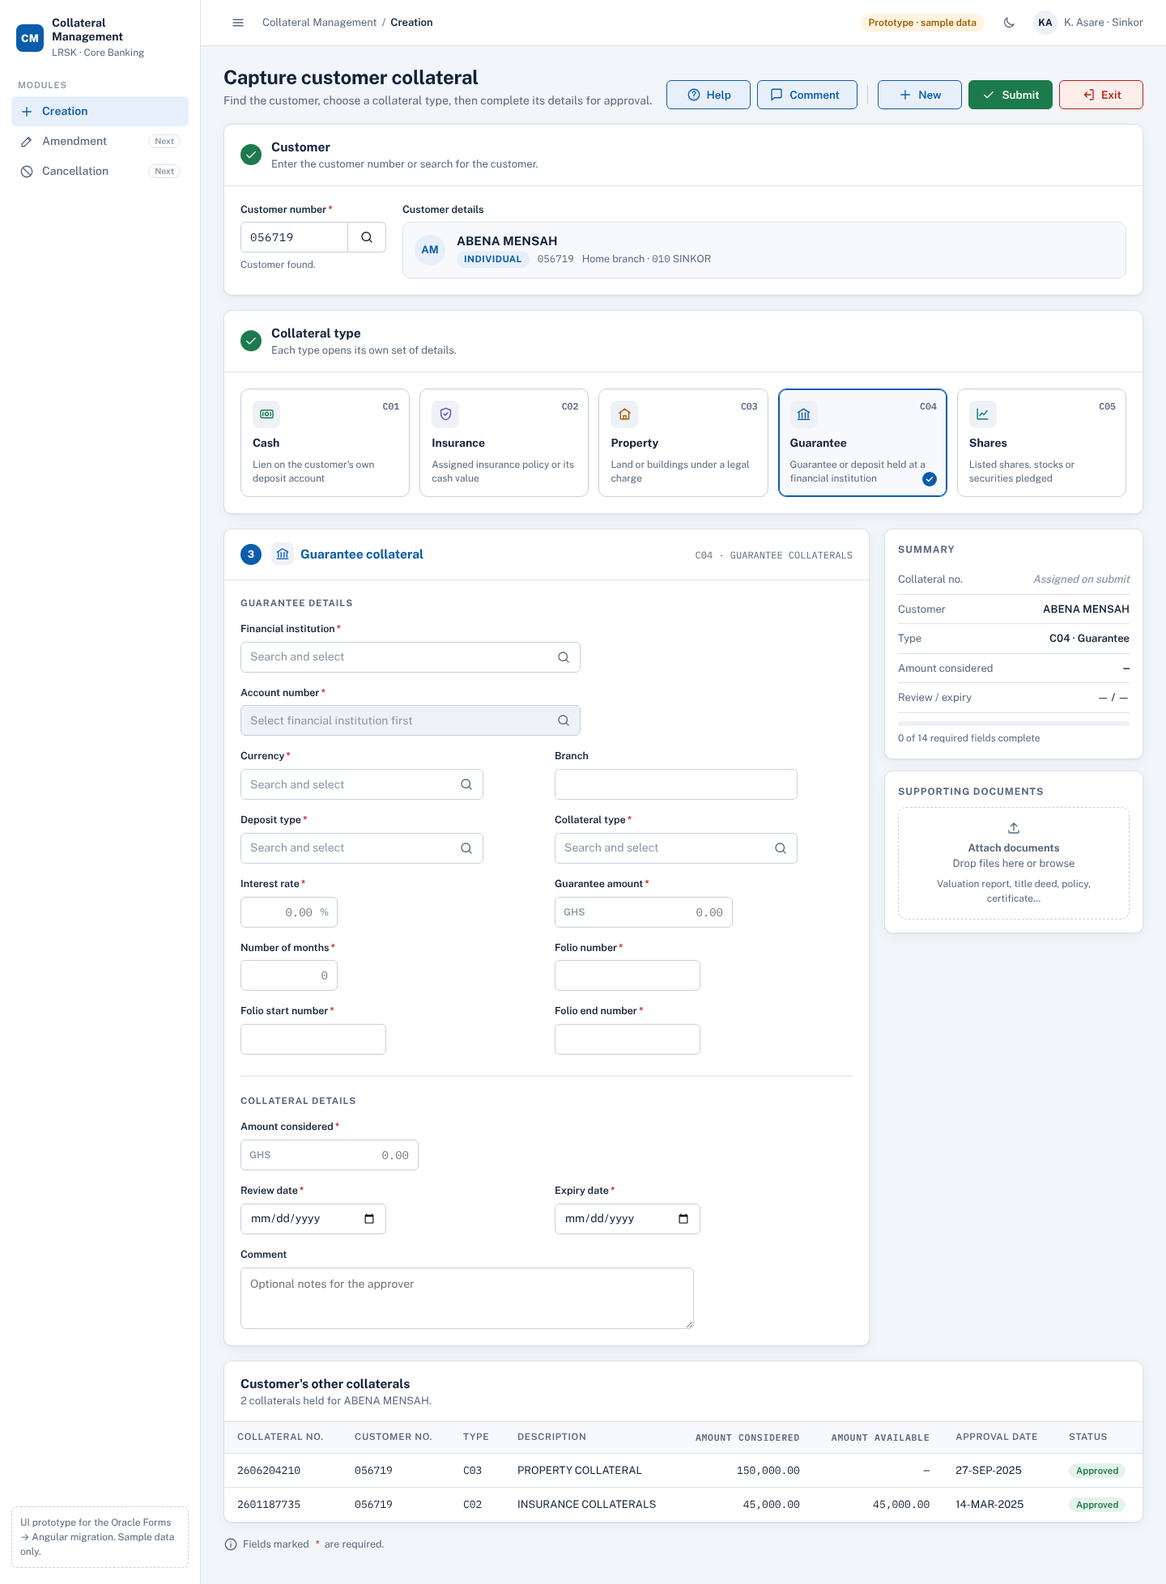
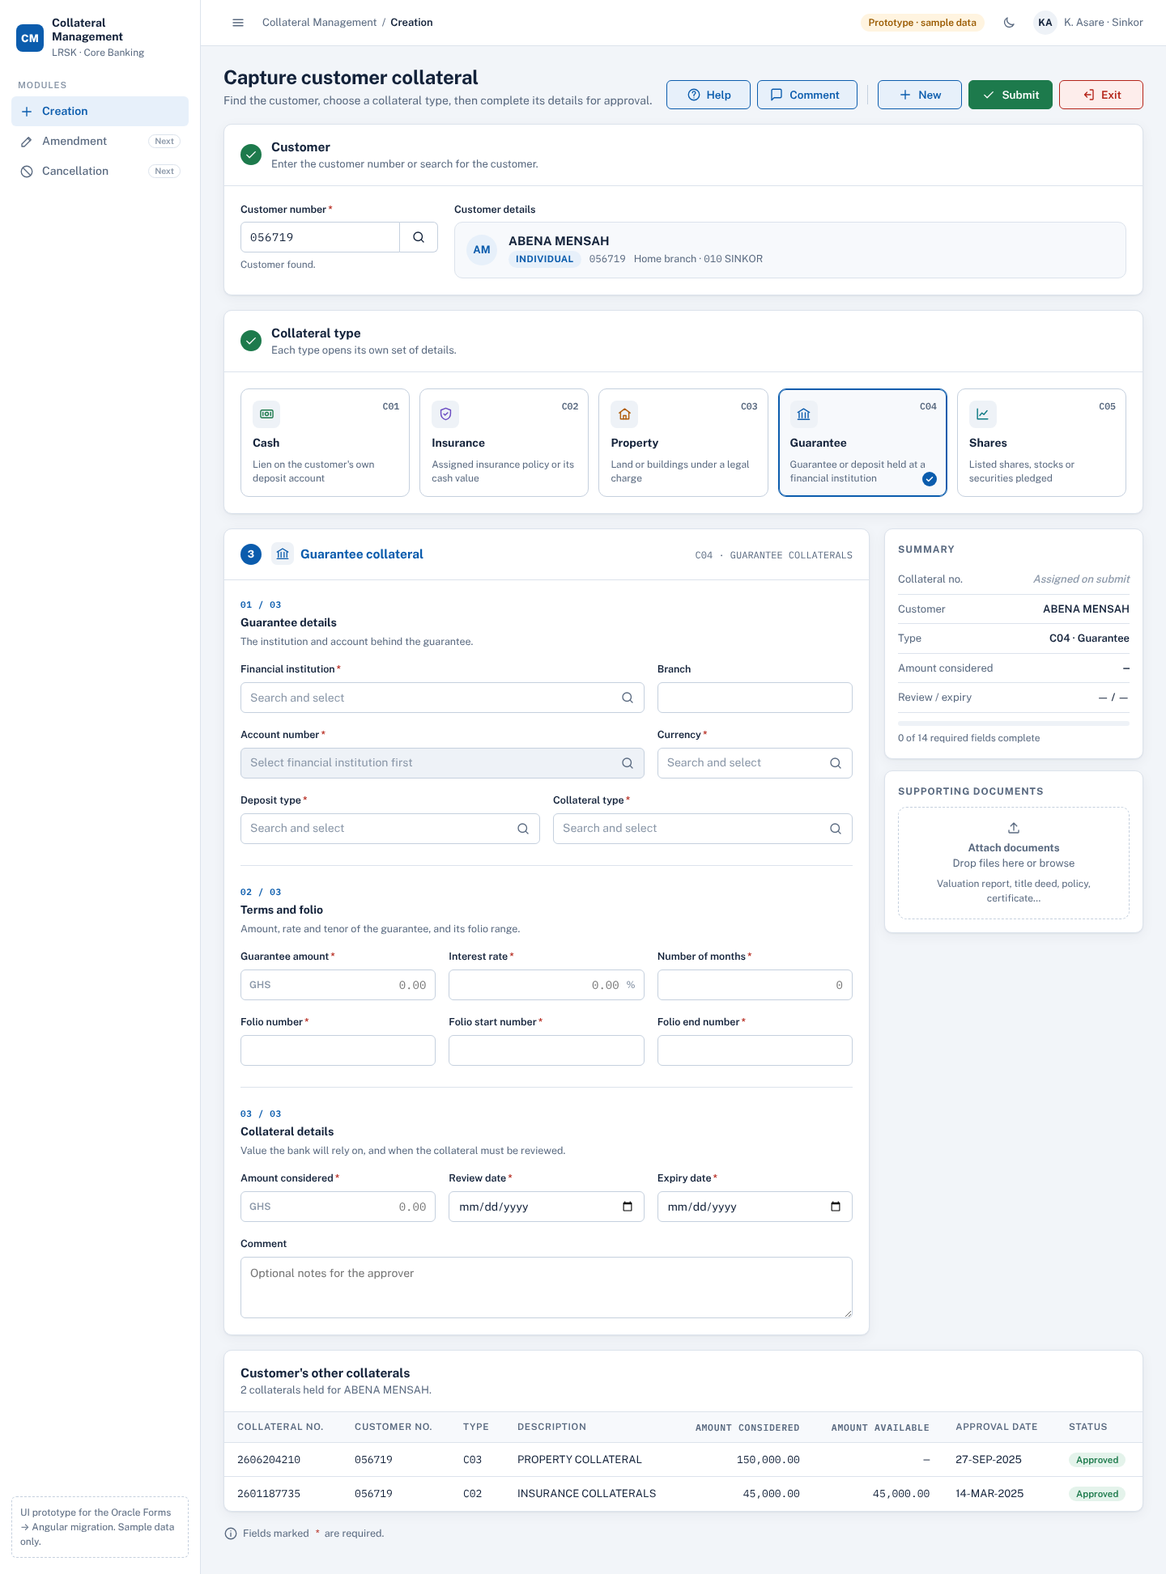
Lay out collateral forms on a 12-column grid
Fields span columns in proportion to their values and every row totals
12, so edges align. Forms split into described sections; auto-filled
fields get a lock and tag. Docs updated with the grid rules.

Claude-Session: https://claude.ai/code/session_011ztbXXXbWQFsQty3k2T7VW

diff --git a/design/creation/index.html b/design/creation/index.html
@@ -120,12 +120,9 @@ svg.i{width:18px;height:18px;flex:none;stroke:currentColor;fill:none;stroke-widt
 .card-body{padding:20px}
 
 /* Fields */
-.grid{display:grid;grid-template-columns:repeat(2,minmax(0,1fr));gap:16px 20px}
-.grid .span2{grid-column:1/-1}
-/* Field width scale: controls are sized to the length of their values, not stretched to the column */
-.field{--w:100%}
-.field > .input,.field > .lookup-btn,.field > .ro,.field > .affix,.field > .search{width:var(--w);max-width:100%}
-.w-xs{--w:120px}.w-sm{--w:180px}.w-md{--w:220px}.w-lg{--w:300px}.w-xl{--w:420px}.w-2xl{--w:560px}.w-full{--w:100%}
+/* 12-column form grid: fields span columns in proportion to their value; every row totals 12 */
+.grid{display:grid;grid-template-columns:repeat(12,minmax(0,1fr));gap:18px 16px}
+.grid > .field{grid-column:span var(--col,12)}
 .field{display:flex;flex-direction:column;gap:6px;min-width:0}
 .field label,.field .lbl{font-size:12.5px;font-weight:600;color:var(--fg)}
 .req{color:var(--danger);margin-left:2px}
@@ -139,7 +136,10 @@ textarea.input{height:auto;min-height:76px;padding:9px 11px;resize:vertical}
 .affix .pre{left:11px}.affix .post{right:11px}
 .affix .pre + .input{padding-left:46px}
 .affix .input.has-post{padding-right:30px}
-.ro{display:flex;align-items:center;background:var(--sunken);border-color:transparent;color:var(--fg);gap:8px;overflow:hidden;white-space:nowrap;text-overflow:ellipsis}
+.ro{display:flex;align-items:center;background:var(--sunken);border-color:transparent;color:var(--fg);gap:8px;overflow:hidden;white-space:nowrap}
+.ro .t{flex:1;min-width:0;overflow:hidden;text-overflow:ellipsis}
+.ro svg{color:var(--faint);width:14px;height:14px}
+.lbl-auto{font-weight:500;color:var(--faint);font-size:11px;margin-left:6px}
 .ro.empty{color:var(--faint)}
 .lookup-btn{display:flex;align-items:center;gap:10px;text-align:left;cursor:pointer}
 .lookup-btn .code{font-family:var(--font-mono);font-size:12.5px;font-weight:600;background:var(--sunken);border-radius:4px;padding:1px 6px}
@@ -150,9 +150,15 @@ textarea.input{height:auto;min-height:76px;padding:9px 11px;resize:vertical}
 .hint{font-size:12px;color:var(--muted)}
 .err{font-size:12px;color:var(--danger);display:flex;gap:5px;align-items:center}
 .field.invalid .input,.field.invalid .lookup-btn{border-color:var(--danger);box-shadow:0 0 0 3px var(--danger-soft)}
-.section{display:flex;flex-direction:column;gap:14px}
+.section{display:grid;grid-template-columns:minmax(0,1fr);gap:16px}
+#formCard .card-body{container-type:inline-size}
+@container (min-width:880px){.section{grid-template-columns:210px minmax(0,1fr);gap:28px}}
+.section-head p{max-width:62ch}
+.section-head{display:flex;flex-direction:column;gap:4px;padding-top:2px}
+.section-head .n{font-family:var(--font-mono);font-size:11px;font-weight:600;color:var(--tc,var(--primary));letter-spacing:.06em}
+.section-head p{margin:0;font-size:12.5px;color:var(--muted);line-height:1.45}
 .section + .section{margin-top:26px;padding-top:22px;border-top:1px solid var(--line)}
-.section-title{font-size:11.5px;text-transform:uppercase;letter-spacing:.08em;font-weight:700;color:var(--muted);margin:0}
+.section-title{font-size:14px;font-weight:700;color:var(--fg);margin:0}
 
 /* Step 1: customer */
 .cust-row{display:grid;grid-template-columns:auto minmax(0,1fr);gap:20px;align-items:start}
@@ -270,7 +276,7 @@ tr.new td{background:var(--primary-soft)}
   .cust-row{grid-template-columns:minmax(0,1fr)}
   .user span{display:none}
 }
-@media (max-width:640px){.types{grid-template-columns:repeat(2,minmax(0,1fr))}.grid{grid-template-columns:minmax(0,1fr)}.actionbar .sep{display:none}.actionbar .btn{min-width:0;flex:1 1 auto}.sample-pill{display:none}.card-head .right{display:none}}
+@media (max-width:640px){.types{grid-template-columns:repeat(2,minmax(0,1fr))}.grid > .field{grid-column:1/-1}.actionbar .sep{display:none}.actionbar .btn{min-width:0;flex:1 1 auto}.sample-pill{display:none}.card-head .right{display:none}}
 @media (prefers-reduced-motion:reduce){*{animation:none!important;transition:none!important}}
 </style>
 </head>
@@ -297,6 +303,7 @@ tr.new td{background:var(--primary-soft)}
   <symbol id="i-alert" viewBox="0 0 24 24"><circle cx="12" cy="12" r="9"/><path d="M12 7.5v5.5M12 16.4v.1"/></symbol>
   <symbol id="i-info" viewBox="0 0 24 24"><circle cx="12" cy="12" r="9"/><path d="M12 11v5.5M12 7.6v.1"/></symbol>
   <symbol id="i-refresh" viewBox="0 0 24 24"><path d="M20 11a8 8 0 0 0-14.3-4.6L4 8"/><path d="M4 4v4h4"/><path d="M4 13a8 8 0 0 0 14.3 4.6L20 16"/><path d="M20 20v-4h-4"/></symbol>
+  <symbol id="i-lock" viewBox="0 0 24 24"><rect x="5" y="10.5" width="14" height="10" rx="2"/><path d="M8.5 10.5V7.5a3.5 3.5 0 0 1 7 0v3"/></symbol>
   <symbol id="i-close" viewBox="0 0 24 24"><path d="M15 4h4a1 1 0 0 1 1 1v14a1 1 0 0 1-1 1h-4"/><path d="M10 16l-4-4 4-4M6 12h10"/></symbol>
 </svg>
 
@@ -426,77 +433,85 @@ const LOVS={
 };
 
 /* ---------- Collateral type schemas (same shape the Angular dynamic form would read) ---------- */
-const COLL=(o)=>[
-  {id:"amount",label:o.amountLabel||"Amount considered",type:"amount",req:true,span:o.extra?1:2},
-  ...(o.extra||[]),
-  {id:"reviewDate",label:o.reviewLabel||"Review date",type:"date",req:true},
-  {id:"expiryDate",label:o.expiryLabel||"Expiry date",type:"date",req:true},
-  {id:"comment",label:"Comment",type:"textarea",span:2,placeholder:"Optional notes for the approver"},
-];
+/* Layout: every section is a 12-column grid. `col` = columns the field spans, chosen from the
+   length of its value. Every row adds up to 12, so left and right edges always line up. */
+const COLL=(o)=>({title:"Collateral details",desc:o.desc||"Value the bank will rely on, and when the collateral must be reviewed.",fields:[
+  {id:"amount",label:o.amountLabel||"Amount considered",type:"amount",req:true,col:4},
+  {id:"reviewDate",label:o.reviewLabel||"Review date",type:"date",req:true,col:4},
+  {id:"expiryDate",label:o.expiryLabel||"Expiry date",type:"date",req:true,col:4},
+  {id:"comment",label:"Comment",type:"textarea",col:12,placeholder:"Optional notes for the approver"},
+]});
 const TYPES=[
   {code:"C01",name:"Cash",title:"Cash collateral",lovDesc:"CASH COLLATERALS",tc:"--t-cash",ic:"cash",d:"Lien on the customer's own deposit account",
    sections:[
-    {title:"Account details",fields:[
-      {id:"account",label:"Source account",type:"lookup",lov:"account",req:true,span:2,w:"xl"},
-      {id:"srcBranch",label:"Source branch",type:"derived",get:s=>s.lookups.account&&`${s.lookups.account.brCode} · ${s.lookups.account.branch}`,w:"md"},
-      {id:"product",label:"Product",type:"derived",get:s=>s.lookups.account&&`${s.lookups.account.prod} · ${s.lookups.account.prodDesc}`},
-      {id:"ccy",label:"Currency",type:"derived",w:"md",get:s=>s.lookups.account&&`${s.lookups.account.ccy} · ${s.lookups.account.ccyDesc}`},
+    {title:"Account details",desc:"The deposit account that secures the facility. Branch, product and currency come from the account.",fields:[
+      {id:"account",label:"Source account",type:"lookup",lov:"account",req:true,col:8},
+      {id:"srcBranch",label:"Source branch",type:"derived",col:4,get:s=>s.lookups.account&&`${s.lookups.account.brCode} · ${s.lookups.account.branch}`},
+      {id:"product",label:"Product",type:"derived",col:8,get:s=>s.lookups.account&&`${s.lookups.account.prod} · ${s.lookups.account.prodDesc}`},
+      {id:"ccy",label:"Currency",type:"derived",col:4,get:s=>s.lookups.account&&`${s.lookups.account.ccy} · ${s.lookups.account.ccyDesc}`},
     ]},
-    {title:"Collateral details",fields:COLL({amountLabel:"Collateral amount",reviewLabel:"Next review date",expiryLabel:"Expiry review date"})}],
+    COLL({amountLabel:"Collateral amount",reviewLabel:"Next review date",expiryLabel:"Expiry review date",desc:"Amount to hold against the account, and when the lien must be reviewed."})],
    rail:"balances"},
   {code:"C02",name:"Insurance",title:"Insurance collateral",lovDesc:"INSURANCE COLLATERALS",tc:"--t-ins",ic:"shield",d:"Assigned insurance policy or its cash value",
    sections:[
-    {title:"Insurance details",fields:[
-      {id:"insCompany",label:"Insurance company",type:"lookup",lov:"insCompany",req:true,span:2,w:"xl"},
-      {id:"insCode",label:"Insurance code",type:"text",req:true,w:"sm"},
-      {id:"policyNo",label:"Policy number",type:"text",req:true},
-      {id:"policyType",label:"Policy type",type:"lookup",lov:"policyType",req:true,span:2,w:"xl"},
+    {title:"Insurance details",desc:"The insurer and the policy assigned to the bank.",fields:[
+      {id:"insCompany",label:"Insurance company",type:"lookup",lov:"insCompany",req:true,col:8},
+      {id:"insCode",label:"Insurance code",type:"text",req:true,col:4},
+      {id:"policyType",label:"Policy type",type:"lookup",lov:"policyType",req:true,col:4},
+      {id:"policyNo",label:"Policy number",type:"text",req:true,col:4},
+      {id:"sumAssured",label:"Sum assured",type:"amount",req:true,col:4},
     ]},
-    {title:"Collateral details",fields:COLL({extra:[{id:"sumAssured",label:"Sum assured",type:"amount",req:true}]})}]},
+    COLL({})]},
   {code:"C03",name:"Property",title:"Property collateral",lovDesc:"PROPERTY COLLATERAL",tc:"--t-prop",ic:"home",d:"Land or buildings under a legal charge",
    sections:[
-    {title:"Property details",fields:[
-      {id:"propType",label:"Property type",type:"lookup",lov:"propType",req:true,w:"lg"},
-      {id:"propSub",label:"Sub property type",type:"lookup",lov:"propSub",w:"lg"},
-      {id:"owner",label:"Ownership name",type:"text",req:true,span:2,w:"2xl"},
-      {id:"location",label:"Location",type:"text",req:true,span:2,w:"2xl"},
-      {id:"valuer",label:"Valuer name",type:"text",req:true,w:"lg"},
-      {id:"valuerTel",label:"Valuer contact number",type:"tel",req:true,placeholder:"e.g. 0302678178"},
-      {id:"valDate",label:"Valuation date",type:"date",req:true},
-      {id:"marketValue",label:"Market value",type:"amount",req:true},
-      {id:"forcedSale",label:"Forced sale value",type:"amount",req:true},
+    {title:"Property details",desc:"What the property is, who owns it and where it is.",fields:[
+      {id:"propType",label:"Property type",type:"lookup",lov:"propType",req:true,col:6},
+      {id:"propSub",label:"Sub property type",type:"lookup",lov:"propSub",col:6},
+      {id:"owner",label:"Ownership name",type:"text",req:true,col:5},
+      {id:"location",label:"Location",type:"text",req:true,col:7,placeholder:"Street, town, plot number"},
     ]},
-    {title:"Collateral details",fields:COLL({})}]},
+    {title:"Valuation",desc:"The latest independent valuation of the property.",fields:[
+      {id:"valuer",label:"Valuer name",type:"text",req:true,col:8},
+      {id:"valuerTel",label:"Valuer contact number",type:"tel",req:true,col:4,placeholder:"e.g. 0302678178"},
+      {id:"valDate",label:"Valuation date",type:"date",req:true,col:4},
+      {id:"marketValue",label:"Market value",type:"amount",req:true,col:4},
+      {id:"forcedSale",label:"Forced sale value",type:"amount",req:true,col:4},
+    ]},
+    COLL({})]},
   {code:"C04",name:"Guarantee",title:"Guarantee collateral",lovDesc:"GUARANTEE COLLATERALS",tc:"--t-guar",ic:"bank",d:"Guarantee or deposit held at a financial institution",
    sections:[
-    {title:"Guarantee details",fields:[
-      {id:"finInst",label:"Financial institution",type:"lookup",lov:"finInst",req:true,span:2,w:"xl"},
-      {id:"guarAccount",label:"Account number",type:"lookup",lov:"guarAccount",req:true,span:2,w:"xl"},
-      {id:"currency",label:"Currency",type:"lookup",lov:"currency",req:true,w:"lg"},
-      {id:"branch",label:"Branch",type:"text",w:"lg"},
-      {id:"depositType",label:"Deposit type",type:"lookup",lov:"depositType",req:true,w:"lg"},
-      {id:"guarCollType",label:"Collateral type",type:"lookup",lov:"guarCollType",req:true,w:"lg"},
-      {id:"rate",label:"Interest rate",type:"percent",req:true},
-      {id:"guarAmount",label:"Guarantee amount",type:"amount",req:true},
-      {id:"months",label:"Number of months",type:"int",req:true},
-      {id:"folioNo",label:"Folio number",type:"text",req:true,w:"sm"},
-      {id:"folioStart",label:"Folio start number",type:"text",req:true,w:"sm"},
-      {id:"folioEnd",label:"Folio end number",type:"text",req:true,w:"sm"},
+    {title:"Guarantee details",desc:"The institution and account behind the guarantee.",fields:[
+      {id:"finInst",label:"Financial institution",type:"lookup",lov:"finInst",req:true,col:8},
+      {id:"branch",label:"Branch",type:"text",col:4},
+      {id:"guarAccount",label:"Account number",type:"lookup",lov:"guarAccount",req:true,col:8},
+      {id:"currency",label:"Currency",type:"lookup",lov:"currency",req:true,col:4},
+      {id:"depositType",label:"Deposit type",type:"lookup",lov:"depositType",req:true,col:6},
+      {id:"guarCollType",label:"Collateral type",type:"lookup",lov:"guarCollType",req:true,col:6},
     ]},
-    {title:"Collateral details",fields:COLL({})}]},
+    {title:"Terms and folio",desc:"Amount, rate and tenor of the guarantee, and its folio range.",fields:[
+      {id:"guarAmount",label:"Guarantee amount",type:"amount",req:true,col:4},
+      {id:"rate",label:"Interest rate",type:"percent",req:true,col:4},
+      {id:"months",label:"Number of months",type:"int",req:true,col:4},
+      {id:"folioNo",label:"Folio number",type:"text",req:true,col:4},
+      {id:"folioStart",label:"Folio start number",type:"text",req:true,col:4},
+      {id:"folioEnd",label:"Folio end number",type:"text",req:true,col:4},
+    ]},
+    COLL({})]},
   {code:"C05",name:"Shares",title:"Shares / stock / security collateral",lovDesc:"SHARES / STOCKS / SECURITIES COLLATERAL",tc:"--t-shares",ic:"chart",d:"Listed shares, stocks or securities pledged",
    sections:[
-    {title:"Shares / stock / security details",fields:[
-      {id:"shareCode",label:"Share / security code",type:"lookup",lov:"shareCode",req:true,span:2,w:"xl"},
-      {id:"shareIndex",label:"Index",type:"lookup",lov:"shareIndex",req:true,span:2,w:"xl"},
-      {id:"units",label:"Number of shares / securities",type:"int",req:true},
-      {id:"secAmount",label:"Security amount",type:"amount",req:true},
-      {id:"marketValue",label:"Market value",type:"amount",req:true},
-      {id:"folioNo",label:"Folio number",type:"text",req:true,w:"sm"},
-      {id:"folioStart",label:"Folio start number",type:"text",req:true,w:"sm"},
-      {id:"folioEnd",label:"Folio end number",type:"text",req:true,w:"sm"},
+    {title:"Security details",desc:"The pledged security, how many units and what they are worth.",fields:[
+      {id:"shareCode",label:"Share / security code",type:"lookup",lov:"shareCode",req:true,col:6},
+      {id:"shareIndex",label:"Index",type:"lookup",lov:"shareIndex",req:true,col:6},
+      {id:"units",label:"Number of shares / securities",type:"int",req:true,col:4},
+      {id:"secAmount",label:"Security amount",type:"amount",req:true,col:4},
+      {id:"marketValue",label:"Market value",type:"amount",req:true,col:4},
     ]},
-    {title:"Collateral details",fields:COLL({})}]},
+    {title:"Folio",desc:"Folio reference and the certificate range pledged.",fields:[
+      {id:"folioNo",label:"Folio number",type:"text",req:true,col:4},
+      {id:"folioStart",label:"Folio start number",type:"text",req:true,col:4},
+      {id:"folioEnd",label:"Folio end number",type:"text",req:true,col:4},
+    ]},
+    COLL({})]},
 ];
 const typeBy=c=>TYPES.find(t=>t.code===c);
 
@@ -549,8 +564,6 @@ function renderTypes(){
 }
 
 /* ---------- Step 3: dynamic form ---------- */
-const WIDTH={amount:"w-md",percent:"w-xs",int:"w-xs",date:"w-sm",tel:"w-sm",text:"w-md",lookup:"w-xl",derived:"w-lg",textarea:"w-2xl"};
-const wcls=f=>f.w?"w-"+f.w:WIDTH[f.type]||"w-md";
 function fieldHtml(t,f){
   const id=`f-${t.code}-${f.id}`,v=S.values[f.id]??"",err=S.showErrors&&S.errors[f.id];
   const lbl=`<label for="${id}">${esc(f.label)}${f.req?'<span class="req">*</span>':""}</label>`;
@@ -560,8 +573,8 @@ function fieldHtml(t,f){
     const blocked=lov.dependsOn&&!S.values[lov.dependsOn];
     ctl=`<button type="button" class="lookup-btn" id="${id}" data-lov="${f.id}" ${blocked?"disabled":""}>${row?`<span class="code">${esc(row.code)}</span><span class="desc">${esc(row.desc)}</span>`:`<span class="ph">${blocked?"Select "+esc(fieldLabel(t,lov.dependsOn).toLowerCase())+" first":"Search and select"}</span>`}${icon("search")}</button>`;
   }else if(f.type==="derived"){
-    const val=f.get(S);ctl=`<div class="ro ${val?"":"empty"}" id="${id}">${val?esc(val):"Filled from source account"}</div>`;
-    return `<div class="field ${wcls(f)} ${f.span===2?"span2":""}"><span class="lbl">${esc(f.label)}</span>${ctl}</div>`;
+    const val=f.get(S);ctl=`<div class="ro ${val?"":"empty"}" id="${id}"><span class="t">${val?esc(val):"From source account"}</span>${icon("lock")}</div>`;
+    return `<div class="field" style="--col:${f.col}"><span class="lbl">${esc(f.label)}<span class="lbl-auto">Auto-filled</span></span>${ctl}</div>`;
   }else if(f.type==="textarea"){
     ctl=`<textarea class="input" id="${id}" data-f="${f.id}" placeholder="${esc(f.placeholder||"")}">${esc(v)}</textarea>`;
   }else if(f.type==="amount"){
@@ -578,7 +591,7 @@ function fieldHtml(t,f){
   let help="";
   if(err)help=`<div class="err">${icon("alert")}${esc(err)}</div>`;
   else if(f.id==="amount"&&S.type==="C01"&&S.lookups.account)help=`<div class="hint">Available balance <span class="mono">${fmt(S.lookups.account.bal.avail)}</span></div>`;
-  return `<div class="field ${wcls(f)} ${f.span===2?"span2":""} ${err?"invalid":""}" id="wrap-${id}">${lbl}${ctl}${help}</div>`;
+  return `<div class="field ${err?"invalid":""}" style="--col:${f.col}" id="wrap-${id}">${lbl}${ctl}${help}</div>`;
 }
 const fieldLabel=(t,id)=>t.sections.flatMap(s=>s.fields).find(f=>f.id===id)?.label||id;
 
@@ -596,7 +609,7 @@ function renderForm(){
       <div class="right"><span class="mono" style="font-size:12px;color:var(--muted)">${t.code} · ${esc(t.lovDesc)}</span></div></div>
     <div class="card-body">
       ${errList.length?`<div class="alert" role="alert" id="errSummary">${icon("alert")}<div><b>${errList.length} field${errList.length>1?"s need":" needs"} attention before you can submit.</b><ul>${errList.slice(0,6).map(([k,m])=>`<li><a href="#f-${t.code}-${k}" data-jump="f-${t.code}-${k}">${esc(m)}</a></li>`).join("")}${errList.length>6?`<li>and ${errList.length-6} more</li>`:""}</ul></div></div>`:""}
-      ${t.sections.map(sec=>`<div class="section"><h3 class="section-title">${esc(sec.title)}</h3><div class="grid">${sec.fields.map(f=>fieldHtml(t,f)).join("")}</div></div>`).join("")}
+      ${t.sections.map((sec,i)=>`<div class="section"><div class="section-head"><span class="n">${String(i+1).padStart(2,"0")} / ${String(t.sections.length).padStart(2,"0")}</span><h3 class="section-title">${esc(sec.title)}</h3><p>${esc(sec.desc||"")}</p></div><div class="grid">${sec.fields.map(f=>fieldHtml(t,f)).join("")}</div></div>`).join("")}
     </div>`;
 }
 

diff --git a/docs/design-system.md b/docs/design-system.md
@@ -35,20 +35,31 @@ Rules:
 | `--act-green` | `#1D7A4C` | `#3FB57A` |
 | `--act-red` | `#B42318` | `#F2867B` |
 
-## Field widths
+## Form layout: 12-column grid
 
-Controls are sized to the length of the value they hold, not stretched to fill the column. Labels and fields stay left-aligned on a two-column grid, so the edges still line up.
+Every form section is a 12-column grid. Each field spans a number of columns that matches the length of its value, and **every row adds up to exactly 12**. Fields stay proportional to their content, and the left and right edges of every row line up.
 
-| Size | Width | Used for |
-|---|---|---|
-| `xs` | 120px | Percent, number of months, number of shares |
-| `sm` | 180px | Customer number, dates, phone numbers, insurance code, folio numbers |
-| `md` | 220px | Amounts, branch (`010 · SINKOR`), currency (`010 · GHANA CEDIS`), short text |
-| `lg` | 300px | Product (`220 · SAVINGS PERSONAL`), shorter code lookups (policy type, deposit type, property type), valuer name |
-| `xl` | 420px | Long-name lookups: source account, financial institution, insurance company, share code |
-| `2xl` | 560px | Ownership name, location, comment |
+| Columns | Used for |
+|---|---|
+| 4 (one third) | Amounts, dates, codes, folio numbers, rates, counts, short lookups (policy type, currency), branch |
+| 5–7 | Paired descriptive values: ownership name / location, property type / sub-type, deposit type / collateral type |
+| 8 (two thirds) | Long-name lookups (source account, financial institution, insurance company), product, valuer name. Always paired with a 4-column field |
+| 12 (full row) | Comment |
 
-Each field type has a default size, and a field definition can override it (`w: 'sm'`). On phones the grid becomes one column; fields keep their size but never grow wider than the screen.
+Standard row patterns:
+
+| Pattern | Example |
+|---|---|
+| 8 + 4 | Source account + Source branch · Financial institution + Branch · Insurance company + Insurance code |
+| 4 + 4 + 4 | Amount considered + Review date + Expiry date (the closing row of every collateral type) · Folio number + Start + End |
+| 6 + 6 | Property type + Sub property type · Share code + Index |
+| 12 | Comment |
+
+Sections:
+- Each form is split into short sections (for example *Property details*, *Valuation*, *Collateral details*). Each section has a position marker (`01 / 03`), a title and a one-line description.
+- When the form is wide (880px or more), section titles move into a left column and the fields sit to the right.
+- Auto-filled fields have a grey fill, a lock icon and an "Auto-filled" tag next to the label.
+- On phones every field takes the full row.
 
 ## Tokens
 

diff --git a/docs/creation/collateral-creation.md b/docs/creation/collateral-creation.md
@@ -230,7 +230,7 @@ In Oracle Forms each type has its own canvas. In Angular, one **dynamic form** c
 interface CollateralTypeDef {
   code: 'C01' | 'C02' | 'C03' | 'C04' | 'C05' | string;
   title: string;
-  sections: { title: string; fields: FieldDef[] }[];
+  sections: { title: string; desc: string; fields: FieldDef[] }[];
   sidePanel?: 'balances';
 }
 
@@ -241,8 +241,7 @@ interface FieldDef {
   required?: boolean;
   lookup?: string;            // reference-data endpoint, e.g. 'insurance-companies'
   dependsOn?: string;         // parent field for cascading lookups
-  span?: 1 | 2;               // grid columns
-  w?: 'xs' | 'sm' | 'md' | 'lg' | 'xl' | '2xl';  // control width, sized to the value length
+  col: 4 | 5 | 6 | 7 | 8 | 12;  // columns out of 12; each row totals 12
 }
 ```
 
